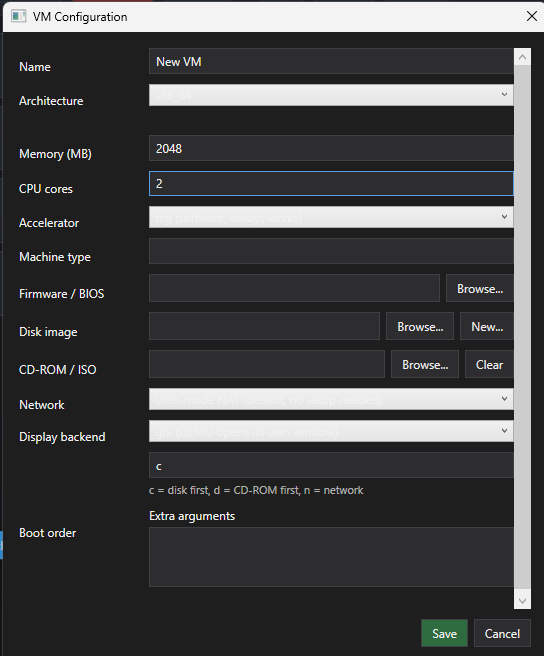
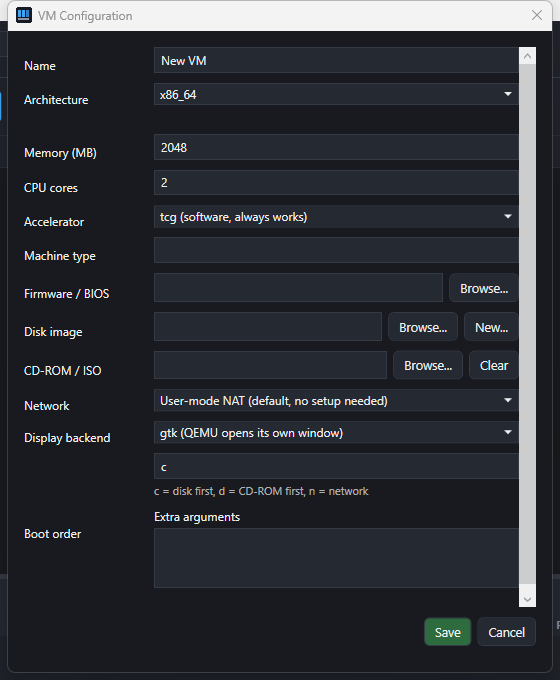
QemuManager: fix dim/gray ComboBox selected-value text
ContentPresenter in the shared ComboBox ControlTemplate (App.xaml) does
not inherit Foreground from its TemplatedParent automatically - without
an explicit TextElement.Foreground binding, the closed box's selected
value (Architecture/Accelerator/Network/Display backend in the VM
Configuration dialog, visible in docs/screenshot.png) fell back to a
dim default instead of this style's own #F1F1F1, while every TextBox
right next to it rendered correctly. Confirmed fixed by screenshot
before/after. Also replaces docs/screenshot.png with a current one
(same dialog, now showing the fix) - the previous one predated the
top-bar/VM-list/detail-page overhaul.

Changed region(s): [[0.25, 0.0, 1.0, 1.0], [0.0, 0.0, 0.25, 0.9756]]

diff --git a/QemuManager/QemuManager/App.xaml b/QemuManager/QemuManager/App.xaml
@@ -122,7 +122,17 @@
              template honors simple setters. Replacing the whole template is
              the only reliable fix for the closed box. Previously this lived
              only in VmEditWindow.xaml; every other ComboBox in the app (none
-             yet, but Phase 2+ will add more) gets it for free now. -->
+             yet, but Phase 2+ will add more) gets it for free now.
+
+             ContentSite's own TextElement.Foreground binding below was
+             missing until found via docs/screenshot.png: the closed box's
+             selected-value text (Architecture/Accelerator/Network/Display
+             backend in the VM Configuration dialog) rendered dim/gray
+             instead of this style's own Foreground=#F1F1F1, since a bare
+             ContentPresenter does not inherit Foreground from its
+             TemplatedParent automatically - it needs the explicit
+             TextElement.Foreground attached-property binding WPF uses for
+             exactly this. -->
         <Style TargetType="ComboBox">
             <Setter Property="Background" Value="{StaticResource CardBg}"/>
             <Setter Property="Foreground" Value="#F1F1F1"/>
@@ -160,6 +170,7 @@
                                               Content="{TemplateBinding SelectionBoxItem}"
                                               ContentTemplate="{TemplateBinding SelectionBoxItemTemplate}"
                                               ContentTemplateSelector="{TemplateBinding ItemTemplateSelector}"
+                                              TextElement.Foreground="{TemplateBinding Foreground}"
                                               Margin="6,3,24,3"
                                               VerticalAlignment="Center"
                                               HorizontalAlignment="Left"/>

diff --git a/README.md b/README.md
@@ -16,10 +16,10 @@ C and verified at every step against real QEMU.
 
 ![UHP Desktop's VM configuration dialog](docs/screenshot.png)
 
-<!-- This shows the "New VM" dialog, not the main window - it predates
-     the top-bar/VM-list/detail-page overhaul described above. Swap in a
-     fresher screenshot of the main window before relying on this one to
-     represent the current UI. -->
+<!-- Shows the "New VM" dialog, not the main window/detail page - a
+     fresher screenshot of those would still be welcome, but this one is
+     at least current (post Phase 1-3 UI overhaul, with the ComboBox
+     dim-text bug fixed). -->
 
 ## Requirements
 
